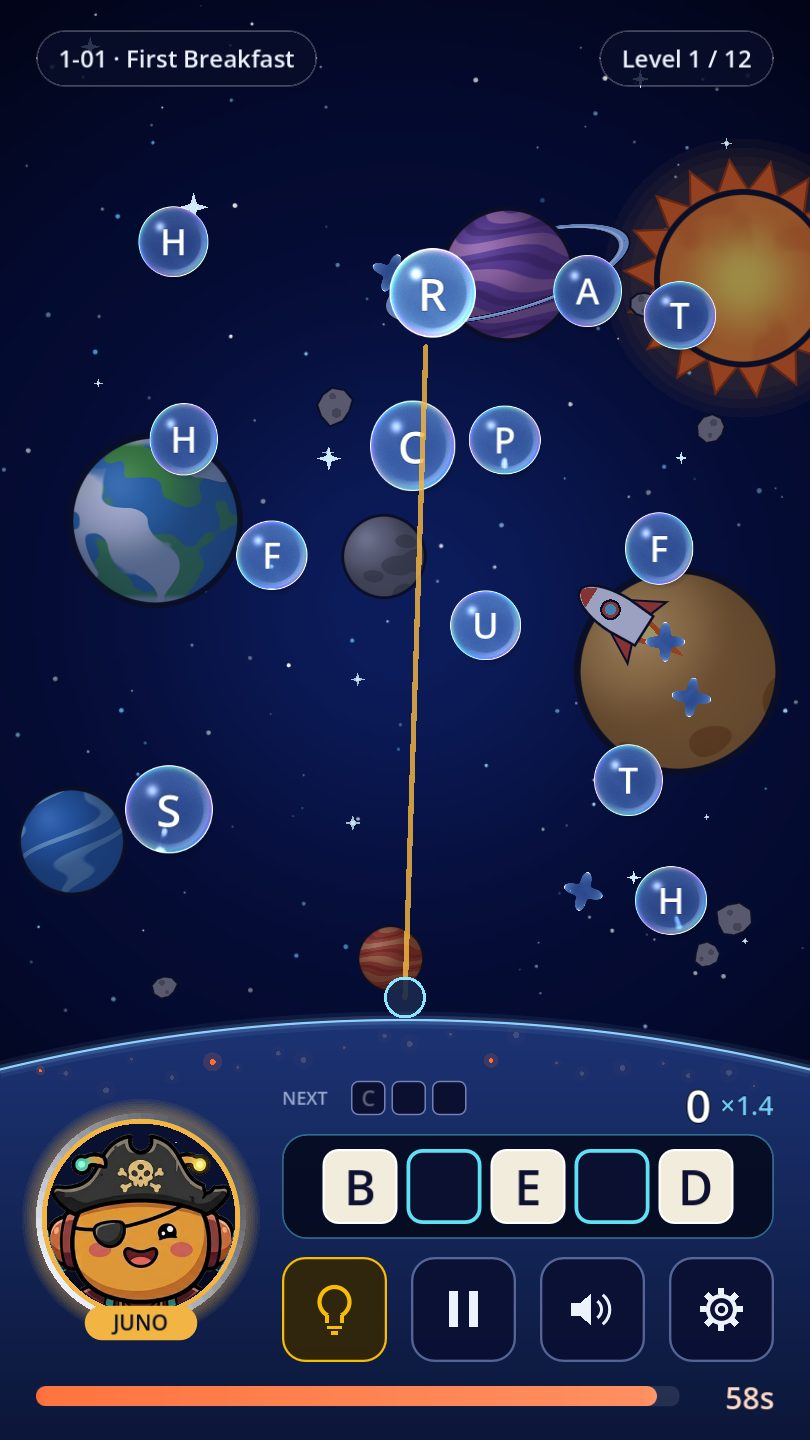
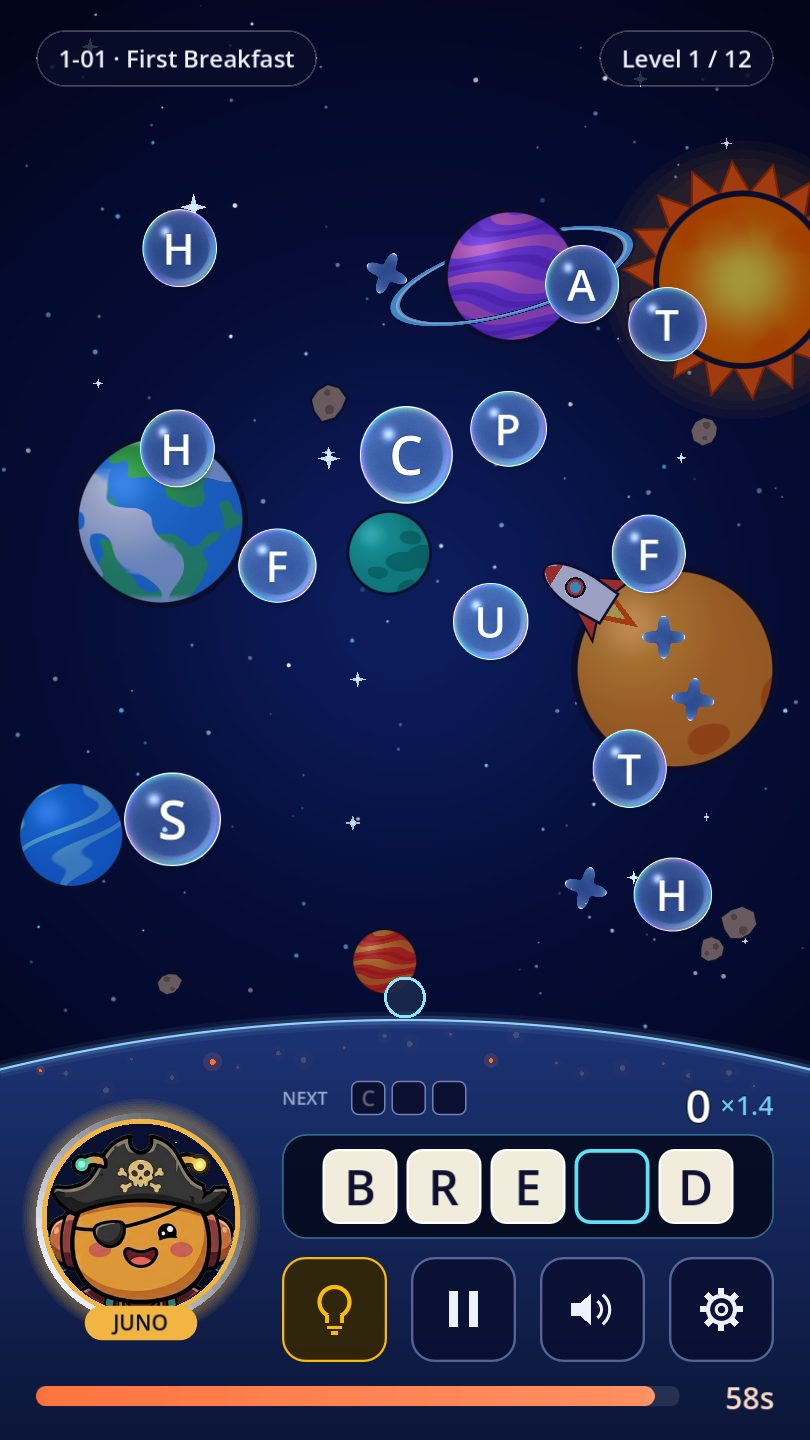
WP-3.I: larger letters and brighter planets (owner feedback)
tile.size 0.12 -> 0.13, glyph 0.68 of the tile, tile.minGap 0.04 -> 0.03;
planets keep full colour with brighter palettes and lighter shading.

Claude-Session: https://claude.ai/code/session_01FKb8eSDw83awM959Qn24cn

diff --git a/reports/WP-3.I/evidence.md b/reports/WP-3.I/evidence.md
@@ -5,7 +5,7 @@ Branch `claude/project-thread-4bg9x3`, 12 Oct 2026.
 | AC | Result | Check | Artefact |
 |---|---|---|---|
 | AC1 | pass | `scripts/godot/test.sh`: `test_spawn_never_overlaps_catchable_tiles`, `test_catchable_tiles_keep_their_gap_while_drifting`, `test_head_on_pair_bounces` (test_round.gd) | log: 157 passed, 0 failed |
-| AC2 | pass | `python -m astrolex_tools.validate_data` → ok; `python -m astrolex_tools.export_game_data` leaves no diff | `data/tunables/game.json` `tile.minGap: 0.04` |
+| AC2 | pass | `python -m astrolex_tools.validate_data` → ok; `python -m astrolex_tools.export_game_data` leaves no diff | `data/tunables/game.json` `tile.minGap: 0.03`, `tile.size: 0.13` |
 | AC3 | pass | `test_hud_sits_on_one_grid` (test_hud.gd) | `phone-393x852-ash.jpg`, `phone-405x720-juno.jpg` |
 | AC4 | pass | `test_backdrop_regains_colour_as_words_are_restored` (test_hud.gd) | screenshots |
 | AC4b | pass | `test_sky_drifters_move_behind_the_letters`, `test_sky_drifters_hold_still_under_reduced_motion` (test_hud.gd) | `motion-393x852-wren.gif` |
@@ -16,3 +16,4 @@ Notes
 - The shot target is not frozen by separation: the shot locks its aim at fire time and the hit test is distance-based.
 - Screenshots: local web export in headless Chromium (SwiftShader) at `?autoplay=1` with a temporary character override that is not committed. The sky, planets and craft are placeholder art (O-14) drawn from gradients, shapes and one planet shader (`game/scenes/planet.gdshader`).
 - 13 Oct: sky restyled after two owner references (cartoon planets on a starry blue night) and the card choice "Just behind letters".
+- 13 Oct (owner: "make the letters a bit larger", "planets more colourful"): `tile.size` 0.12 → 0.13 and the glyph from 0.62 to 0.68 of the tile; `tile.minGap` 0.04 → 0.03 so the larger letters still pack; planets keep full colour (the start-of-level drain now applies to the sky only) with brighter palettes and lighter shading.

diff --git a/wps/WP-3.I.md b/wps/WP-3.I.md
@@ -3,7 +3,7 @@
 Owner feedback (12 Oct 2026, thread "design") on the merged WP-3.H screen: "the letters are overlapping with the background and the alignment of the elements are fully random. also the background looks boring and does not catch player attention". Web only. Bubble and glass looks unchanged.
 
 ## Scope
-- **Letters never overlap:** catchable tiles (planes 0 and 1) keep a gap of `tile.minGap` (field units, default 0.04, a tunable). Spawns are rejection-sampled; drifting tiles that come too close bounce apart.
+- **Letters never overlap:** catchable tiles (planes 0 and 1) keep a gap of `tile.minGap` (field units, default 0.03, a tunable); letters are larger (`tile.size` 0.13, glyph 0.68 of the tile). Spawns are rejection-sampled; drifting tiles that come too close bounce apart.
 - **Readable letters:** the backdrop behind the play field is calm and dark (no bright nebula blobs behind the glass).
 - **One grid:** 48 px margins on both sides. Left column: portrait. Right column: info row (NEXT boxes at left, points and combo at right), slot tray, four buttons, all sharing the column's edges. Full-width clock bar at the bottom. Top chips and Babel's band on the same margins. The night panel's curve is symmetric.
 - **Sky (owner references and card choice, 13 Oct 2026):** the backdrop is just stars: a deep blue night with white dots and twinkling four-point sparkles. Cartoon planets with ink outlines (Earth with clouds, a ringed planet, a sun with rays, an orange, a blue, a red and a grey one), asteroids, a rocket, a satellite and fiery meteors move through the play field **just behind the letters** (owner pick "Just behind letters"): slower than the letters, never on top of them, and taps pass through. Planets turn and bob; under reduced motion nothing drifts. This replaces the first pass on this branch (galaxy band, Moon, sunrise).
